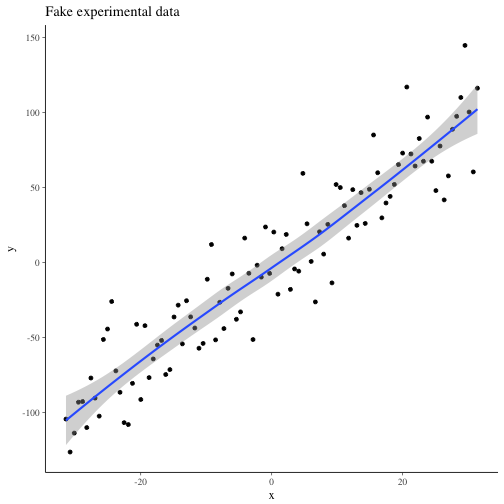
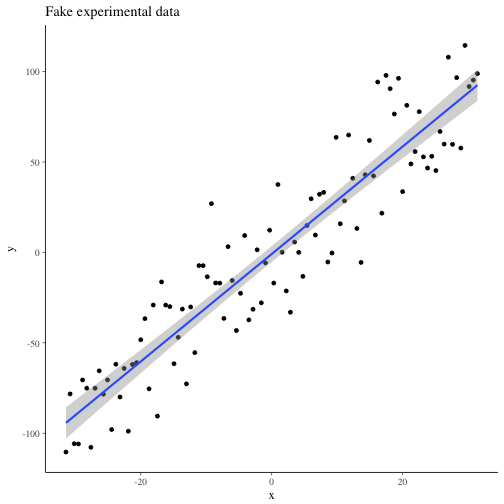
yeehaw

diff --git a/greta-playground.html b/greta-playground.html
@@ -39,7 +39,7 @@
 <meta property="og:locale" content="en_US"/>
 <meta property="og:url" content="./greta-playground.html"/>
 <meta property="og:type" content="article"/>
-<meta property="article:published_time" content="2018-03-14 12:30:42.364918+01:00"/>
+<meta property="article:published_time" content="2018-03-14 14:32:21.458189+01:00"/>
 <meta property="article:modified_time" content=""/>
 <meta property="article:author" content="./author/pras.html">
 <meta property="article:section" content="blogs"/>
@@ -103,16 +103,12 @@ y <span class="o">&lt;-</span> intercept <span class="o">+</span> slope<span cla
 data <span class="o">&lt;-</span> <span class="kt">data_frame</span><span class="p">(</span>y <span class="o">=</span> y<span class="p">,</span> x <span class="o">=</span> x<span class="p">)</span>
 ggplot<span class="p">(</span>data<span class="p">,</span> aes<span class="p">(</span>x <span class="o">=</span> x<span class="p">,</span> y <span class="o">=</span> y<span class="p">))</span> <span class="o">+</span>
   geom_point<span class="p">()</span> <span class="o">+</span>
-  geom_smooth<span class="p">()</span> <span class="o">+</span>
+  geom_smooth<span class="p">(</span>method <span class="o">=</span> <span class="s">&#39;lm&#39;</span><span class="p">)</span> <span class="o">+</span>
   ggtitle<span class="p">(</span><span class="s">&quot;Fake experimental data&quot;</span><span class="p">)</span>
 </pre></div>
 
 
-<div class="highlight"><pre><span></span>## `geom_smooth()` using method = &#39;loess&#39;
-</pre></div>
-
-
-<p><img alt="center" src="$(pwd">/figures/greta_playground/unnamed-chunk-2-1.png)</p>
+<p><img alt="center" src="/figures/greta_playground/unnamed-chunk-2-1.png"></p>
 <p>Given this data, we want to write Greta code to infer the model parameters. Since we really don&#8217;t know anything about the prior distributions of our parameters, we look at the experimental data and take rough, uniform&nbsp;priors. </p>
 <h3>Defining clueless priors for model&nbsp;parameters</h3>
 <div class="highlight"><pre><span></span>intercept_p <span class="o">&lt;-</span> uniform<span class="p">(</span><span class="m">-10</span><span class="p">,</span> <span class="m">10</span><span class="p">)</span>
@@ -143,12 +139,12 @@ param_draws <span class="o">&lt;-</span> mcmc<span class="p">(</span>our_model<s
 </pre></div>
 
 
-<p><img alt="center" src="$(pwd">/figures/greta_playground/unnamed-chunk-6-1.png)</p>
+<p><img alt="center" src="/figures/greta_playground/unnamed-chunk-6-1.png"></p>
 <div class="highlight"><pre><span></span>mcmc_intervals<span class="p">(</span>param_draws<span class="p">)</span>
 </pre></div>
 
 
-<p><img alt="center" src="$(pwd">/figures/greta_playground/unnamed-chunk-6-2.png)</p>
+<p><img alt="center" src="/figures/greta_playground/unnamed-chunk-6-2.png"></p>
 <p>By inspection, it looks like the <a href="https://arxiv.org/abs/1701.02434"><span class="caps">HMC</span></a> has reached some reasonable values for our model&nbsp;parameters. </p>
 <p>Explicitly, the mean estimates can be computed from the <code>param_draws</code> data structure, or via the <code>greta::opt</code> function.   </p>
 <div class="highlight"><pre><span></span>param_draws_df <span class="o">&lt;-</span> as_data_frame<span class="p">(</span>param_draws<span class="p">[[</span><span class="m">1</span><span class="p">]])</span>
@@ -161,7 +157,7 @@ param_estimates <span class="o">%&gt;%</span> <span class="kp">print</span><span
 <div class="highlight"><pre><span></span>## # A tibble: 1 x 3
 ##   intercept_p slope_p sd_eps_p
 ##         &lt;dbl&gt;   &lt;dbl&gt;    &lt;dbl&gt;
-## 1       -2.32    3.23     22.2
+## 1      -0.831    2.97     22.2
 </pre></div>
 
 
@@ -171,12 +167,24 @@ opt_params<span class="o">$</span>par <span class="o">%&gt;%</span> <span class=
 
 
 <div class="highlight"><pre><span></span>## intercept_p     slope_p    sd_eps_p 
-##    2.503366    3.277133   20.958645
+##   -1.856992    3.073569   23.122213
 </pre></div>
 
 
 <h3>Plotting against&nbsp;data</h3>
 <p>the <code>calculate()</code> function is available on the latest release of <code>greta</code> on&nbsp;github.</p>
+<div class="highlight"><pre><span></span>mean_y_plot <span class="o">&lt;-</span> intercept_p<span class="o">+</span>slope_p<span class="o">*</span>x
+mean_y_plot_draws <span class="o">&lt;-</span> calculate<span class="p">(</span>mean_y_plot<span class="p">,</span> param_draws<span class="p">)</span>
+mean_y_est <span class="o">&lt;-</span> <span class="kp">colMeans</span><span class="p">(</span>mean_y_plot_draws<span class="p">[[</span><span class="m">1</span><span class="p">]])</span>
+data_pred <span class="o">&lt;-</span> data <span class="o">%&gt;%</span> mutate<span class="p">(</span>y_fit <span class="o">=</span> mean_y_est<span class="p">)</span>
+ggplot<span class="p">(</span>data_pred<span class="p">)</span> <span class="o">+</span>
+    geom_point<span class="p">(</span>aes<span class="p">(</span>x<span class="p">,</span>y<span class="p">),</span> colour <span class="o">=</span> <span class="s">&quot;blue&quot;</span><span class="p">)</span> <span class="o">+</span>
+    geom_smooth<span class="p">(</span>aes<span class="p">(</span>x<span class="p">,</span>y<span class="p">),</span> colour <span class="o">=</span> <span class="s">&#39;blue&#39;</span><span class="p">,</span> method <span class="o">=</span> <span class="s">&#39;lm&#39;</span><span class="p">)</span> <span class="o">+</span>
+    geom_line<span class="p">(</span>aes<span class="p">(</span>x<span class="p">,</span>y_fit<span class="p">),</span> colour <span class="o">=</span> <span class="s">&#39;red&#39;</span><span class="p">)</span>
+</pre></div>
+
+
+<p><img alt="center" src="/figures/greta_playground/unnamed-chunk-8-1.png"></p>
   </div>
   <div class="tag-cloud">
     <p>

diff --git a/output/greta-playground.html b/output/greta-playground.html
@@ -39,7 +39,7 @@
 <meta property="og:locale" content="en_US"/>
 <meta property="og:url" content="./greta-playground.html"/>
 <meta property="og:type" content="article"/>
-<meta property="article:published_time" content="2018-03-14 12:30:42.364918+01:00"/>
+<meta property="article:published_time" content="2018-03-14 14:32:21.458189+01:00"/>
 <meta property="article:modified_time" content=""/>
 <meta property="article:author" content="./author/pras.html">
 <meta property="article:section" content="blogs"/>
@@ -103,16 +103,12 @@ y <span class="o">&lt;-</span> intercept <span class="o">+</span> slope<span cla
 data <span class="o">&lt;-</span> <span class="kt">data_frame</span><span class="p">(</span>y <span class="o">=</span> y<span class="p">,</span> x <span class="o">=</span> x<span class="p">)</span>
 ggplot<span class="p">(</span>data<span class="p">,</span> aes<span class="p">(</span>x <span class="o">=</span> x<span class="p">,</span> y <span class="o">=</span> y<span class="p">))</span> <span class="o">+</span>
   geom_point<span class="p">()</span> <span class="o">+</span>
-  geom_smooth<span class="p">()</span> <span class="o">+</span>
+  geom_smooth<span class="p">(</span>method <span class="o">=</span> <span class="s">&#39;lm&#39;</span><span class="p">)</span> <span class="o">+</span>
   ggtitle<span class="p">(</span><span class="s">&quot;Fake experimental data&quot;</span><span class="p">)</span>
 </pre></div>
 
 
-<div class="highlight"><pre><span></span>## `geom_smooth()` using method = &#39;loess&#39;
-</pre></div>
-
-
-<p><img alt="center" src="$(pwd">/figures/greta_playground/unnamed-chunk-2-1.png)</p>
+<p><img alt="center" src="/figures/greta_playground/unnamed-chunk-2-1.png"></p>
 <p>Given this data, we want to write Greta code to infer the model parameters. Since we really don&#8217;t know anything about the prior distributions of our parameters, we look at the experimental data and take rough, uniform&nbsp;priors. </p>
 <h3>Defining clueless priors for model&nbsp;parameters</h3>
 <div class="highlight"><pre><span></span>intercept_p <span class="o">&lt;-</span> uniform<span class="p">(</span><span class="m">-10</span><span class="p">,</span> <span class="m">10</span><span class="p">)</span>
@@ -143,12 +139,12 @@ param_draws <span class="o">&lt;-</span> mcmc<span class="p">(</span>our_model<s
 </pre></div>
 
 
-<p><img alt="center" src="$(pwd">/figures/greta_playground/unnamed-chunk-6-1.png)</p>
+<p><img alt="center" src="/figures/greta_playground/unnamed-chunk-6-1.png"></p>
 <div class="highlight"><pre><span></span>mcmc_intervals<span class="p">(</span>param_draws<span class="p">)</span>
 </pre></div>
 
 
-<p><img alt="center" src="$(pwd">/figures/greta_playground/unnamed-chunk-6-2.png)</p>
+<p><img alt="center" src="/figures/greta_playground/unnamed-chunk-6-2.png"></p>
 <p>By inspection, it looks like the <a href="https://arxiv.org/abs/1701.02434"><span class="caps">HMC</span></a> has reached some reasonable values for our model&nbsp;parameters. </p>
 <p>Explicitly, the mean estimates can be computed from the <code>param_draws</code> data structure, or via the <code>greta::opt</code> function.   </p>
 <div class="highlight"><pre><span></span>param_draws_df <span class="o">&lt;-</span> as_data_frame<span class="p">(</span>param_draws<span class="p">[[</span><span class="m">1</span><span class="p">]])</span>
@@ -161,7 +157,7 @@ param_estimates <span class="o">%&gt;%</span> <span class="kp">print</span><span
 <div class="highlight"><pre><span></span>## # A tibble: 1 x 3
 ##   intercept_p slope_p sd_eps_p
 ##         &lt;dbl&gt;   &lt;dbl&gt;    &lt;dbl&gt;
-## 1       -2.32    3.23     22.2
+## 1      -0.831    2.97     22.2
 </pre></div>
 
 
@@ -171,12 +167,24 @@ opt_params<span class="o">$</span>par <span class="o">%&gt;%</span> <span class=
 
 
 <div class="highlight"><pre><span></span>## intercept_p     slope_p    sd_eps_p 
-##    2.503366    3.277133   20.958645
+##   -1.856992    3.073569   23.122213
 </pre></div>
 
 
 <h3>Plotting against&nbsp;data</h3>
 <p>the <code>calculate()</code> function is available on the latest release of <code>greta</code> on&nbsp;github.</p>
+<div class="highlight"><pre><span></span>mean_y_plot <span class="o">&lt;-</span> intercept_p<span class="o">+</span>slope_p<span class="o">*</span>x
+mean_y_plot_draws <span class="o">&lt;-</span> calculate<span class="p">(</span>mean_y_plot<span class="p">,</span> param_draws<span class="p">)</span>
+mean_y_est <span class="o">&lt;-</span> <span class="kp">colMeans</span><span class="p">(</span>mean_y_plot_draws<span class="p">[[</span><span class="m">1</span><span class="p">]])</span>
+data_pred <span class="o">&lt;-</span> data <span class="o">%&gt;%</span> mutate<span class="p">(</span>y_fit <span class="o">=</span> mean_y_est<span class="p">)</span>
+ggplot<span class="p">(</span>data_pred<span class="p">)</span> <span class="o">+</span>
+    geom_point<span class="p">(</span>aes<span class="p">(</span>x<span class="p">,</span>y<span class="p">),</span> colour <span class="o">=</span> <span class="s">&quot;blue&quot;</span><span class="p">)</span> <span class="o">+</span>
+    geom_smooth<span class="p">(</span>aes<span class="p">(</span>x<span class="p">,</span>y<span class="p">),</span> colour <span class="o">=</span> <span class="s">&#39;blue&#39;</span><span class="p">,</span> method <span class="o">=</span> <span class="s">&#39;lm&#39;</span><span class="p">)</span> <span class="o">+</span>
+    geom_line<span class="p">(</span>aes<span class="p">(</span>x<span class="p">,</span>y_fit<span class="p">),</span> colour <span class="o">=</span> <span class="s">&#39;red&#39;</span><span class="p">)</span>
+</pre></div>
+
+
+<p><img alt="center" src="/figures/greta_playground/unnamed-chunk-8-1.png"></p>
   </div>
   <div class="tag-cloud">
     <p>

diff --git a/content/blogs/greta_playground.md b/content/blogs/greta_playground.md
@@ -28,15 +28,11 @@ y <- intercept + slope*x + rnorm(n = length_of_data, mean = 0, sd = sd_eps)
 data <- data_frame(y = y, x = x)
 ggplot(data, aes(x = x, y = y)) +
   geom_point() +
-  geom_smooth() +
+  geom_smooth(method = 'lm') +
   ggtitle("Fake experimental data")
 ```
 
-```
-## `geom_smooth()` using method = 'loess'
-```
-
-![center]($(pwd)/figures/greta_playground/unnamed-chunk-2-1.png)
+![center](/figures/greta_playground/unnamed-chunk-2-1.png)
 
 Given this data, we want to write Greta code to infer the model parameters. Since we really don't know anything about the prior distributions of our parameters, we look at the experimental data and take rough, uniform priors. 
 
@@ -77,13 +73,13 @@ and plot the samples, and the parameter fits.
 mcmc_dens(param_draws)
 ```
 
-![center]($(pwd)/figures/greta_playground/unnamed-chunk-6-1.png)
+![center](/figures/greta_playground/unnamed-chunk-6-1.png)
 
 ```r
 mcmc_intervals(param_draws)
 ```
 
-![center]($(pwd)/figures/greta_playground/unnamed-chunk-6-2.png)
+![center](/figures/greta_playground/unnamed-chunk-6-2.png)
 
 By inspection, it looks like the [HMC](https://arxiv.org/abs/1701.02434) has reached some reasonable values for our model parameters. 
 
@@ -100,7 +96,7 @@ param_estimates %>% print()
 ## # A tibble: 1 x 3
 ##   intercept_p slope_p sd_eps_p
 ##         <dbl>   <dbl>    <dbl>
-## 1       -2.32    3.23     22.2
+## 1      -0.831    2.97     22.2
 ```
 
 ```r
@@ -110,9 +106,23 @@ opt_params$par %>% print()
 
 ```
 ## intercept_p     slope_p    sd_eps_p 
-##    2.503366    3.277133   20.958645
+##   -1.856992    3.073569   23.122213
 ```
 
 ### Plotting against data
 
 the `calculate()` function is available on the latest release of `greta` on github.
+
+```r
+mean_y_plot <- intercept_p+slope_p*x
+mean_y_plot_draws <- calculate(mean_y_plot, param_draws)
+mean_y_est <- colMeans(mean_y_plot_draws[[1]])
+data_pred <- data %>% mutate(y_fit = mean_y_est)
+ggplot(data_pred) +
+    geom_point(aes(x,y), colour = "blue") +
+    geom_smooth(aes(x,y), colour = 'blue', method = 'lm') +
+    geom_line(aes(x,y_fit), colour = 'red')
+```
+
+![center](/figures/greta_playground/unnamed-chunk-8-1.png)
+
